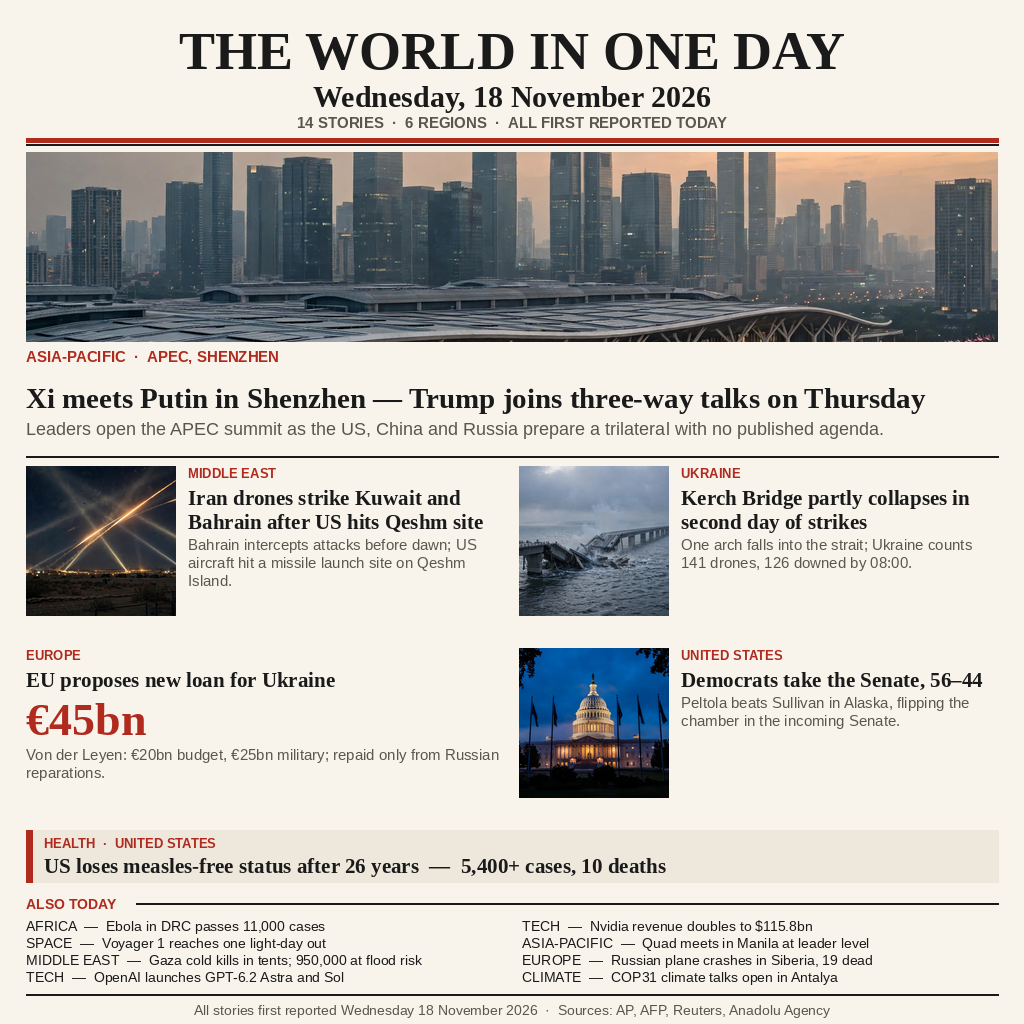
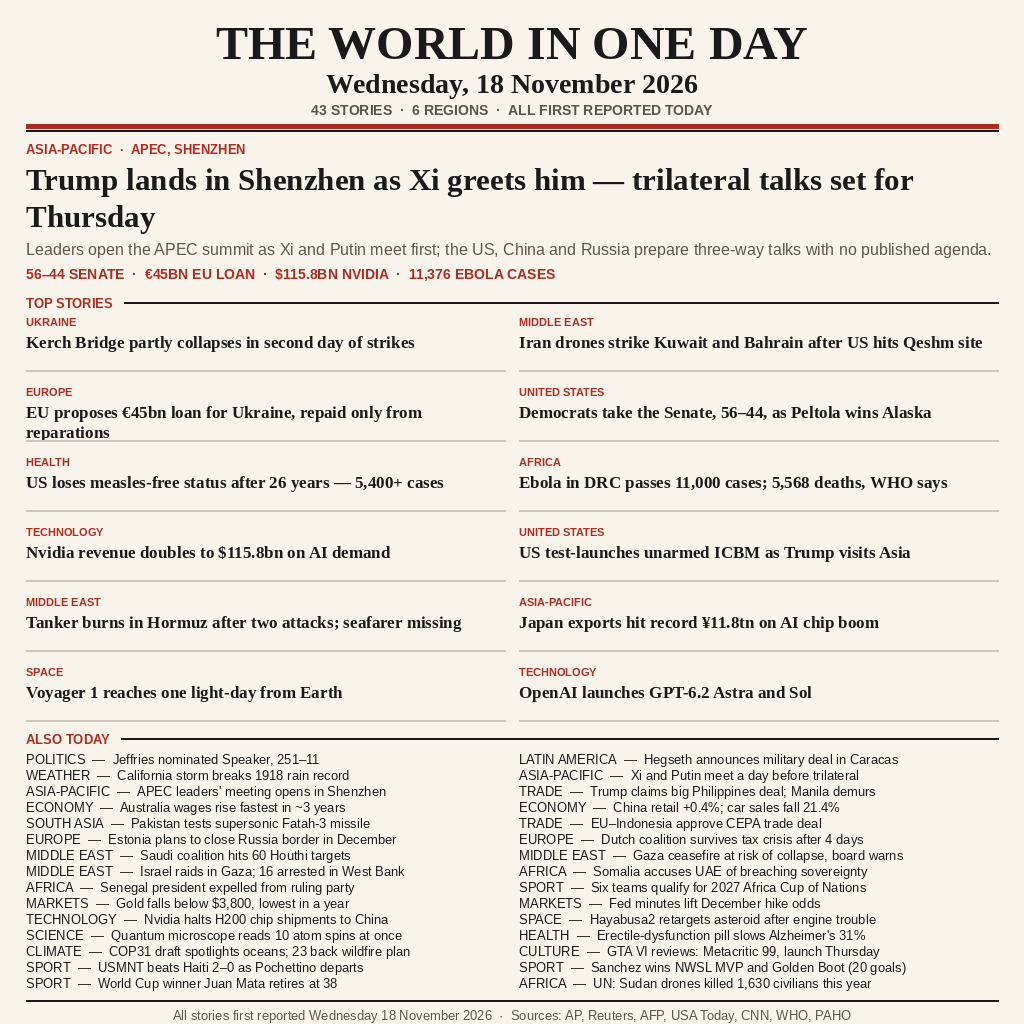
The World in One Day — 18 November 2026 front page v2 (43 verified stories, 174,908 bytes)

diff --git a/README.md b/README.md
@@ -5,32 +5,34 @@
 [![reward](https://make.fun/badge/news-image-20261118/LecialiArthelais/makefun-news-image-20261118/reward.svg)](https://make.fun/bounty/news-image-20261118?utm_source=github&utm_medium=readme&utm_campaign=news-image-20261118)
 
 One image summing up the world's news of Wednesday 18 November 2026, built
-for the make.fun news-image-20261118 bounty: a newspaper front page that names
-the day and carries fourteen verified stories from that day.
+for the make.fun news-image-20261118 bounty: a typographic newspaper front
+page that names the day and carries forty-three verified stories from that
+day — one hero, twelve top stories, thirty more in the "Also Today" band.
 
 ## The day, in six stories
 
-- **Lead — Shenzhen:** Xi meets Putin at the APEC summit; Trump joins a
-  three-way talk on Thursday.
-- **Gulf:** Iranian drones strike Kuwait and Bahrain after US aircraft hit a
-  missile site on Qeshm Island.
+- **Lead — Shenzhen:** Trump lands in Shenzhen as Xi greets him at the
+  airport; the trilateral talks are set for Thursday.
 - **Ukraine:** the Kerch Bridge partly collapses in a second day of strikes;
   the EU proposes a €45bn loan for Ukraine.
+- **Gulf:** Iranian drones strike Kuwait and Bahrain after US aircraft hit a
+  missile site on Qeshm Island; a tanker burns in Hormuz.
 - **Washington:** Democrats take the Senate 56–44 as Peltola beats Sullivan
   in Alaska.
 - **Health:** the US loses its measles-free status after 26 years — 5,400+
-  cases, 10 deaths.
-- **Also today:** Ebola passes 11,000 cases in DRC, Nvidia doubles revenue,
-  Voyager 1 reaches one light-day out, the Quad meets in Manila, and more.
+  cases, 10 deaths; Ebola in DRC passes 11,000 cases.
+- **Also today:** Nvidia doubles revenue to $115.8bn, Voyager 1 reaches one
+  light-day out, OpenAI launches GPT-6.2, and more.
 
 ## How it was made
 
-Four press-style illustrations were generated for the lead stories; every word
-on the page was set with PIL, so the text is crisp and nothing is garbled.
-The program copies the finished front page to /output/entry.png.
+A clean typographic front page (paper, ink, one red accent) composed with
+PIL: every word on the page is set programmatically, so the text is crisp
+and nothing is garbled. No photographs — the flat design keeps the PNG small
+(174,908 bytes). The program copies the finished front page to
+/output/entry.png.
 
 ## Sources
 
 Every story on the page was first reported on Wednesday 18 November 2026:
-AP, AFP, Reuters and Anadolu Agency.
-
+AP, Reuters, AFP, USA Today, CNN, WHO, PAHO.
